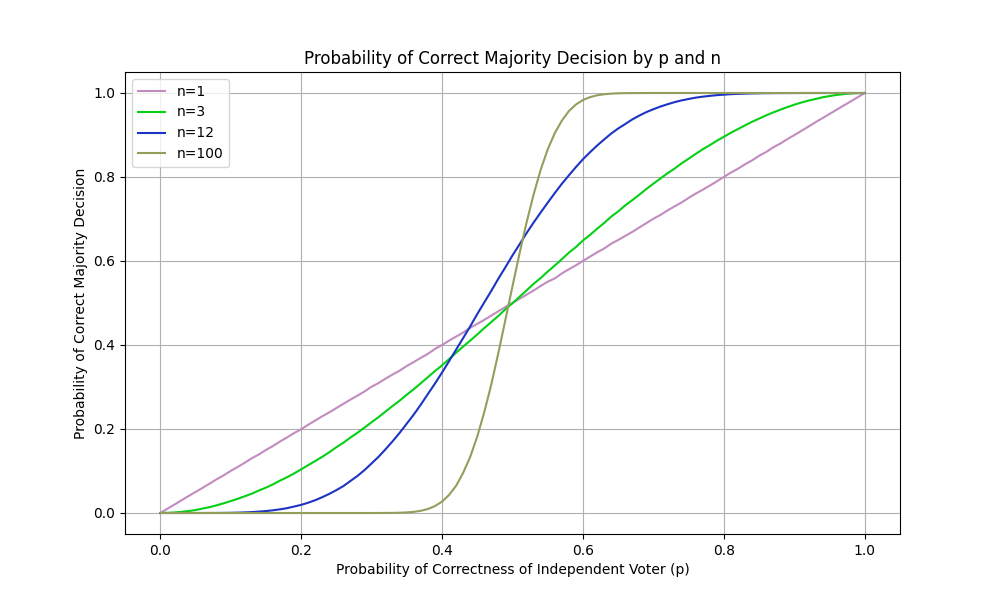
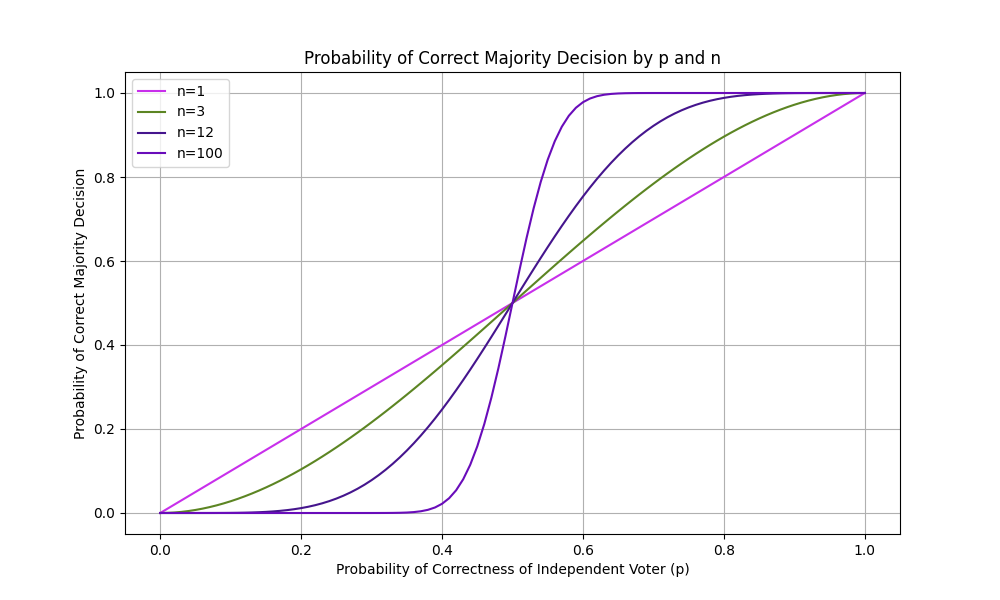
corrected deterministic approach for even n values

diff --git a/theorems/condorcet.py b/theorems/condorcet.py
@@ -5,7 +5,11 @@ def montecarlo(p, n, m):
     r = majority(n, m)
     if r is None:
         return None
-    return np.sum(np.sum((np.random.random(size=(trials, n)) < p).astype(int), axis=1) >= r) / trials
+    if n % 2:
+        return np.sum(np.sum((np.random.random(size=(trials, n)) < p).astype(int), axis=1) >= r) / trials
+    else:
+        # edit this condition for even n values
+        return np.sum(np.sum((np.random.random(size=(trials, n)) < p).astype(int), axis=1) >= r) / trials
 
 def deterministic(p, n, m):
     r = majority(n, m)
@@ -14,6 +18,9 @@ def deterministic(p, n, m):
     while r <= n:
         P += (comb(n, r) * (p**r) * ((1 - p)**(n-r)))
         r += 1
+    if n % 2 == 0:
+        P += (1/2) * (comb(n, (n//2)) * (p**(n//2)) * ((1 - p)**(n-(n//2))))
+
     return P
 
 def plot(n_values, type, m):

diff --git a/utils.py b/utils.py
@@ -5,10 +5,7 @@ import numpy as np
 
 def majority(n, m=0):
     if m == 0:
-        if n % 2:
-            r = (n // 2) + 1
-        else:
-            r = n // 2
+        r = (n // 2) + 1
     elif m > 50 and m <= 100: r = ceil((m / 100) * n)
     else:
         print("correctness_simulation(p, n, m) where m = 0 for simple-majority but > 50 and <= 100 for super-majority or unanimity")
